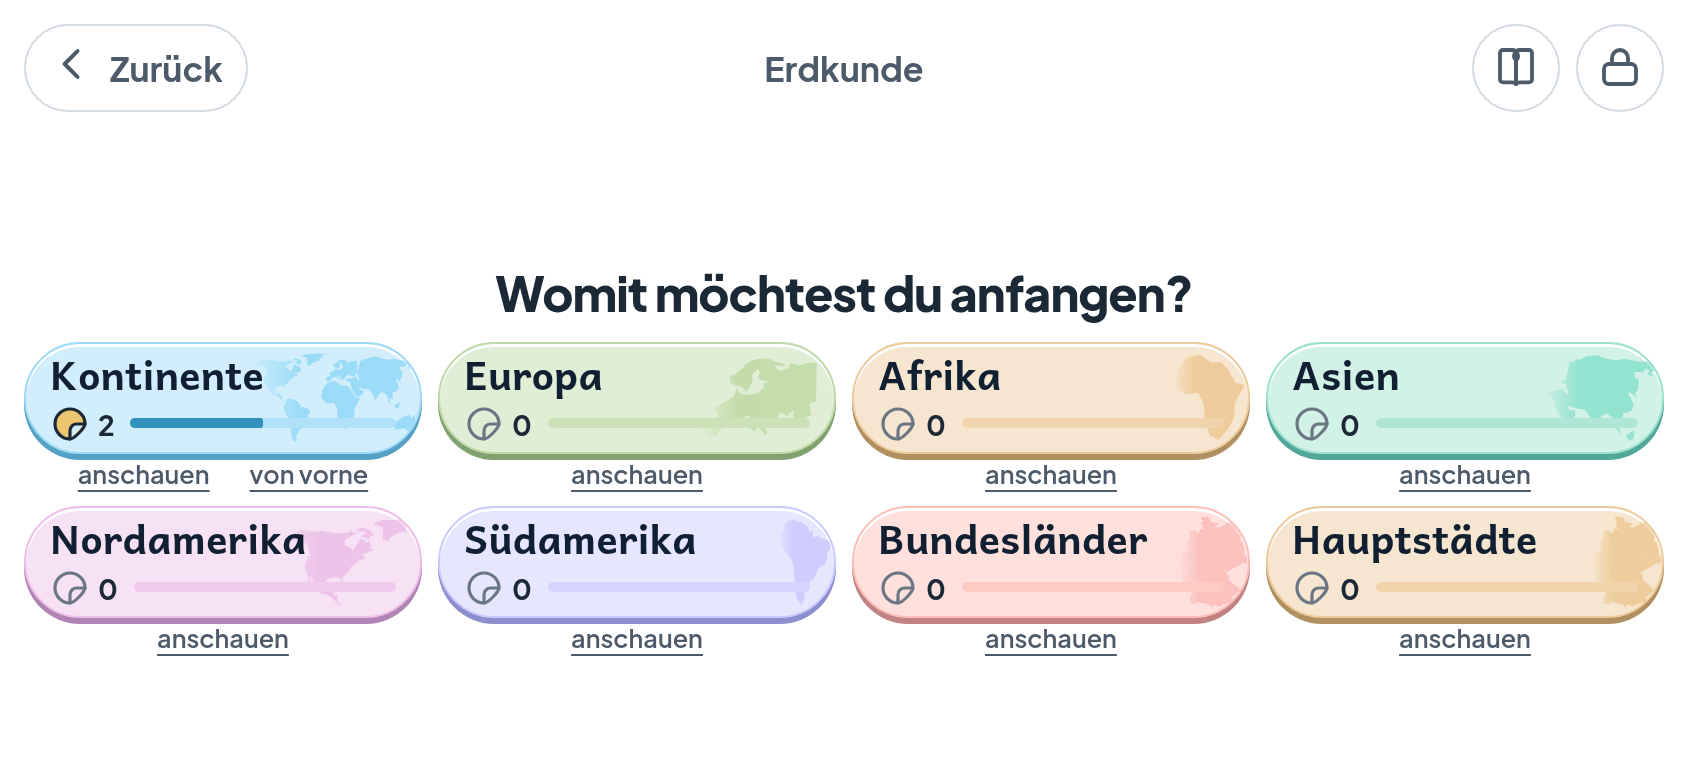
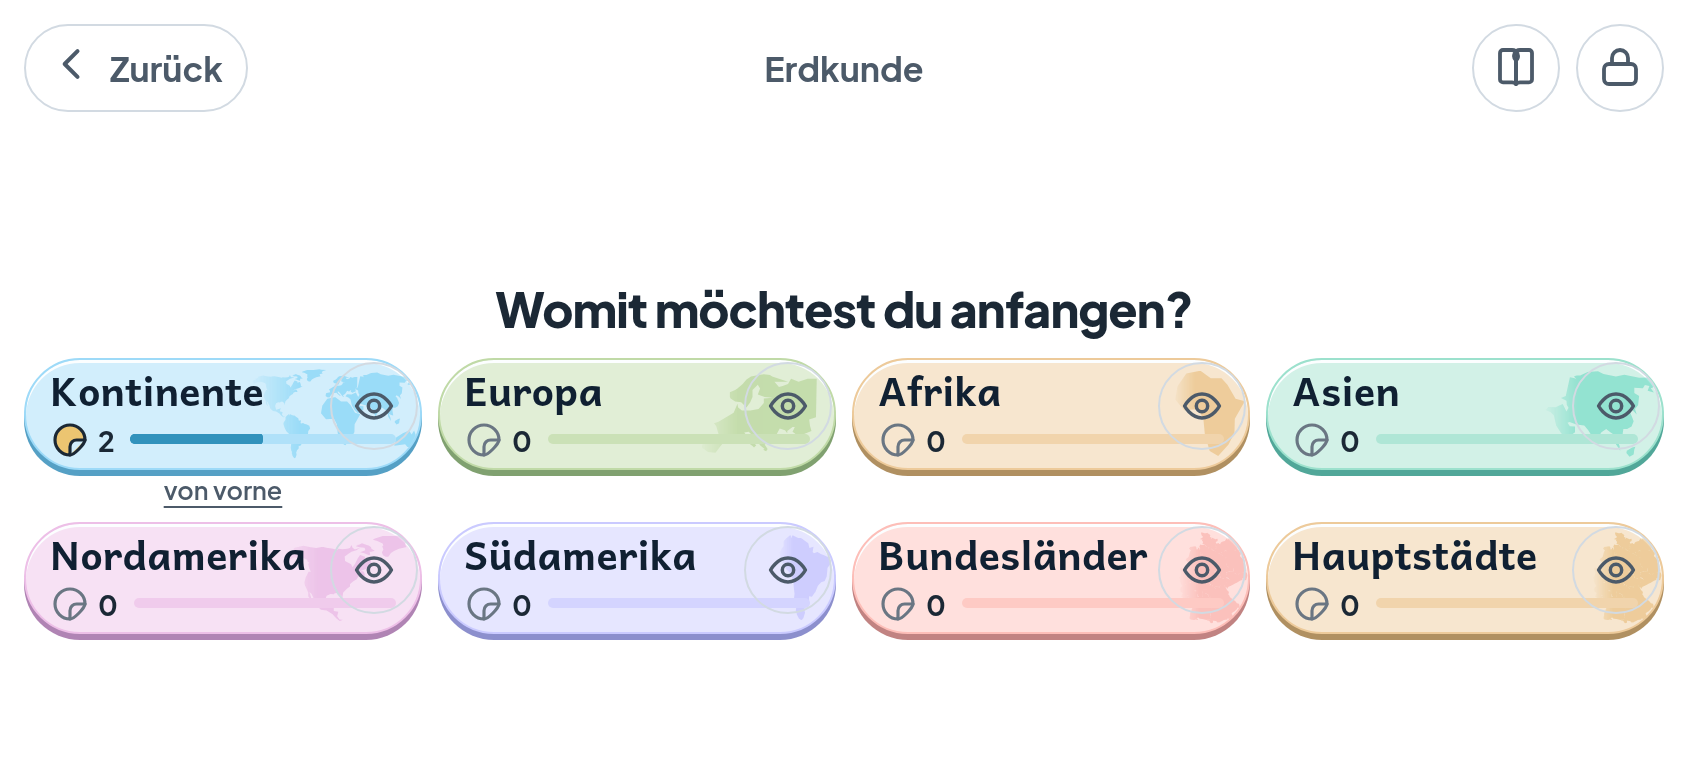
P16: das Auge in der Kachel - und keine Trefferflaeche mehr unter 44 pt
P14 hatte gemessen: 56 Trefferflaechen unter 44 pt, alle derselbe Knopf -
"anschauen" unter jeder Kachel, 16 Punkte hoch. Die Rechnung sagte, dass
44 in einer Zeile UNTER der Kachel nicht zu haben sind.

Also nicht darunter, sondern darin: ein Auge in der Kachel, 44 x 44, in
derselben runden Knopfform wie Buch und Elternbereich. Und es ist zugleich
das bessere Zeichen - das Wort "anschauen" war fuer eine Sechsjaehrige,
die nicht liest, ohnehin stumm.

Die Zeile unter der Kachel trug meistens nur diesen einen Knopf; leer
heisst jetzt weg, und damit fallen je Reihe 26 Punkte. Auf dem iPad passen
statt drei Kacheln vier in eine Reihe.

passt --hinweise: vorher 56 Trefferflaechen unter 44 pt, nachher 0. Auf
allen sieben Groessen x 21 Bildschirmen ist jedes Ziel fuer den Finger
jetzt mindestens 44 Punkte gross - zum ersten Mal, seit das gemessen wird.

Geprueft wird beides: dass das Auge in den Vorlauf fuehrt und dass es die
Ebene NICHT startet. Es liegt ueber der Kachel, und die Kachel ist selbst
ein Knopf. Gegenprobe eingetragen.

Claude-Session: https://claude.ai/code/session_01GwecUQxeRqJxKHLkGsVrjv

Changed region(s): [[0.0, 0.3385, 0.9858, 0.8308]]

diff --git a/prototyp/spiel.js b/prototyp/spiel.js
@@ -57,6 +57,11 @@ const ZEICHEN = {
   // Ein Aufkleber: rundes Blatt mit umgeschlagener Ecke.
   kleber:'<path d="M12 3a9 9 0 0 1 9 9h-5a4 4 0 0 0-4 4v5a9 9 0 0 1 0-18z"/><path d="M12 21c2.4 0 8.6-6.2 9-9"/>',
   zu:'<path d="M6 6l12 12M18 6L6 18"/>',
+  /* Anschauen: ein Auge. Es stand bis P16 als das WORT „anschauen" unter
+     jeder Kachel - sechzehn Punkte hoch und fuer eine Sechsjaehrige, die
+     nicht liest, ohnehin stumm. */
+  auge:'<path d="M2.5 12S6 5.5 12 5.5 21.5 12 21.5 12 18 18.5 12 18.5 2.5 12 2.5 12z"/>'
+     + '<circle cx="12" cy="12" r="3.1"/>',
 };
 const ZEI = (n, g=24)=>`<svg width="${g}" height="${g}" viewBox="0 0 24 24" fill="none"
   stroke="currentColor" stroke-width="1.9" stroke-linecap="round" stroke-linejoin="round"
@@ -1612,8 +1617,9 @@ async function ebenenwahl(){
             ${fortschrittBalken(b)}
           </div>
         </button>
-        <div class="kachelknoepfe">
-          <button class="leise mini" data-schau="${b.id}">anschauen</button>${b.gesammelt ? `
+        <button class="knopf rund schau" data-schau="${b.id}"
+                aria-label="${b.titel} anschauen" title="Anschauen">${ZEI('auge', 22)}</button>
+        <div class="kachelknoepfe">${b.gesammelt ? `
           <button class="leise mini" data-neu="${b.id}">von vorne</button>` : ''}${
           /* Der Test steht erst da, wenn die Ebene ganz gesammelt ist (B2).
              Vorher waere er kein „Test am Ende", sondern eine zweite Art

diff --git a/prototyp/vorlage.html b/prototyp/vorlage.html
@@ -346,6 +346,15 @@ body{background:linear-gradient(168deg,var(--grund) 0%,var(--grund-2) 100%);
 /* Die zwei kleinen Knoepfe unter einer Kachel. Nebeneinander, damit sie
    die naechste Reihe nicht nach unten schieben. */
 .kachelknoepfe{display:flex;gap:var(--r2);justify-content:center;flex-wrap:wrap}
+/* Leer heisst weg. „anschauen" sitzt seit P16 als Auge IN der Kachel;
+   uebrig bleiben „von vorne" und „Test", und die gibt es meistens nicht.
+   Eine leere Zeile kostete auf dem kurzen Querformat 26 Punkte je Reihe. */
+.kachelknoepfe:empty{display:none}
+/* Das Auge in der Ecke der Kachel: volle 44 Punkte, ohne der Kachel viel
+   zu nehmen (die misst 229 x 56). Es liegt DARUEBER, nicht darin - ein
+   Knopf im Knopf waere kein gueltiges Markup. */
+.kachelpaar{position:relative}
+.kachelpaar .schau{position:absolute;top:var(--r0);right:var(--r0);z-index:2}
 .sterne{display:flex;gap:var(--r1)}
 .fortschritt{font-family:var(--f-ui);font-size:var(--s0);font-weight:600;color:var(--tinte-2);
   font-variant-numeric:tabular-nums}

diff --git a/docs/Lernkiste-BACKLOG.md b/docs/Lernkiste-BACKLOG.md
@@ -804,6 +804,41 @@ dunkleren Text, nicht durch blasseren Streu.
 
 ---
 
+### P16 · Das Auge an der Kachel  ·  ERLEDIGT
+
+P14 hatte gemessen: **56 Trefferflächen unter 44 pt**, alle derselbe Knopf —
+„anschauen" unter jeder Kachel der Ebenenwahl, **16 Punkte hoch**. Geholt
+waren dort zehn Punkte Luft (16 → 26); die Rechnung sagte, dass 44 in einer
+Zeile *unter* der Kachel nicht zu haben sind.
+
+**Also nicht darunter, sondern darin.** „anschauen" ist jetzt ein **Auge in
+der Kachel** — 44 × 44, dieselbe runde Knopfform wie Buch und Elternbereich.
+Und es ist zugleich das bessere Zeichen: das Wort „anschauen" war für eine
+Sechsjährige, die nicht liest, ohnehin stumm.
+
+**Das Ergebnis ist mehr als der eine Knopf.** Die Zeile unter der Kachel
+trug in den meisten Fällen *nur* diesen einen Knopf; „von vorne" gibt es
+erst mit Fortschritt, „Test" erst mit einer vollen Ebene. Leer heißt jetzt
+weg (`:empty`), und damit fallen je Reihe 26 Punkte. Auf dem iPad passen
+statt drei Kacheln **vier** in eine Reihe.
+
+```
+passt --hinweise:  vorher 56 Trefferflächen unter 44 pt
+                   nachher 0
+```
+
+Auf **allen sieben Größen × 21 Bildschirmen** ist jetzt jedes Ziel für den
+Finger mindestens 44 Punkte groß — zum ersten Mal, seit das gemessen wird.
+
+**Geprüft wird beides**: dass das Auge in den Vorlauf führt, und dass es die
+Ebene **nicht startet**. Es liegt über der Kachel, und die Kachel ist selbst
+ein Knopf; ein Tipp, der durchschlägt, würde die Sitzung anfangen statt die
+Karten zu zeigen — und das fällt niemandem auf, weil beide Wege auf einen
+plausiblen Bildschirm führen. Unterschieden wird an dem, was nur der Vorlauf
+hat: das Gitter der Aufkleber und „Jetzt starten".
+
+---
+
 ### P15 · Der Zeiger steht im Pulk  ·  ERLEDIGT
 
 Gemessen auf der Nordamerikakarte, Guatemala als Ziel: der Zeiger („!")
